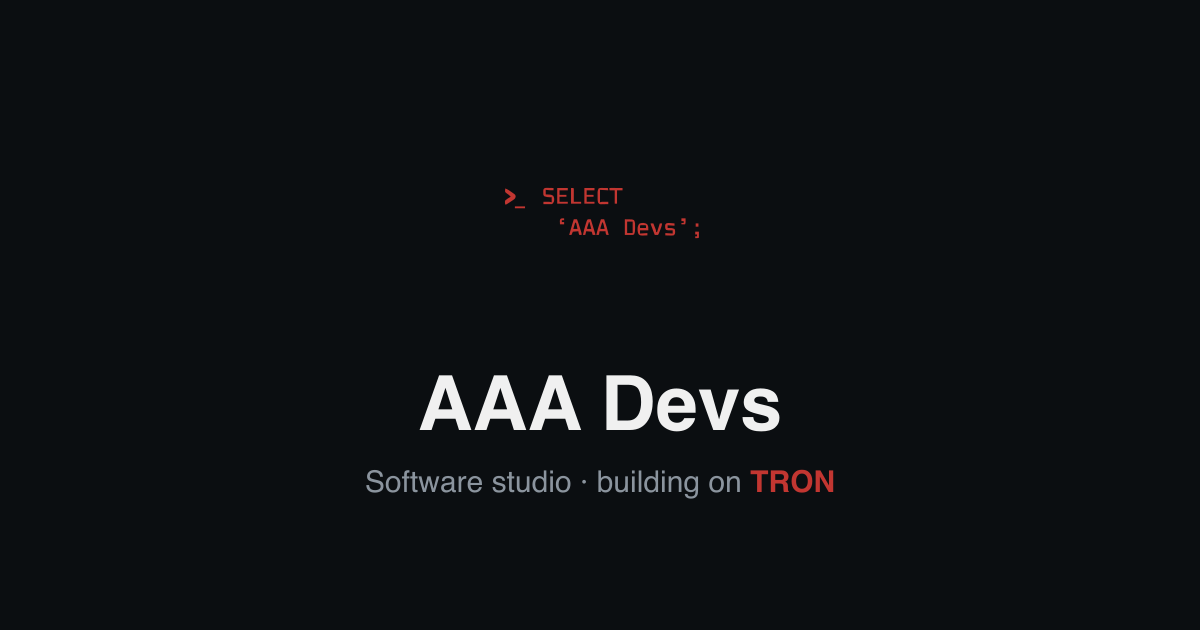
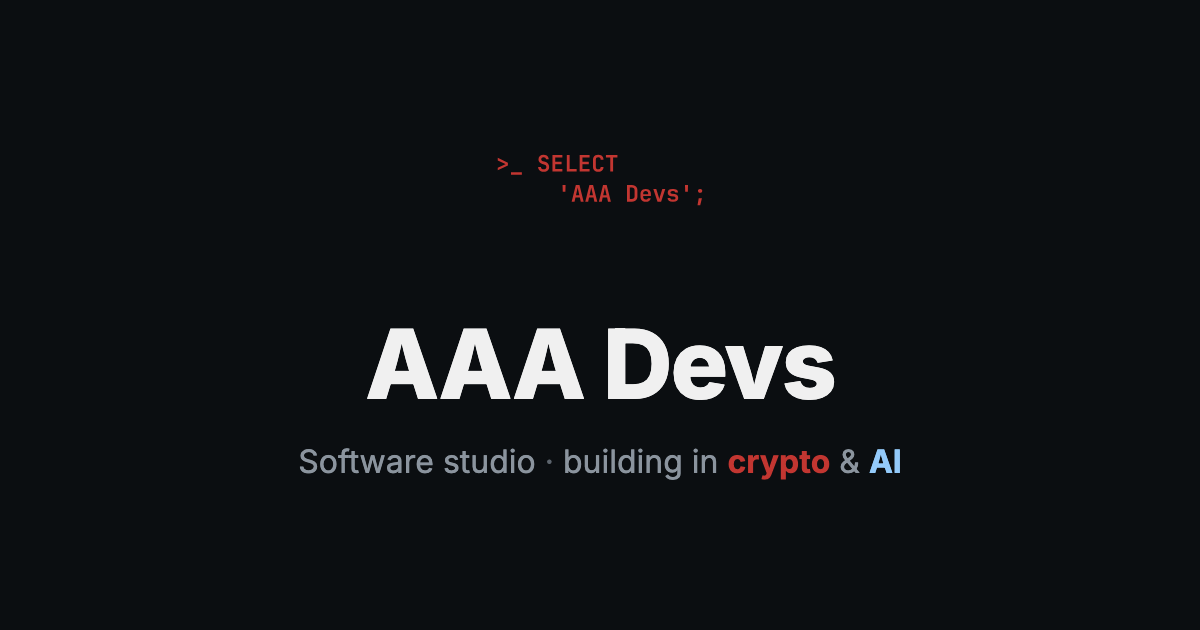
feat: add plainai project card, reposition studio as crypto & AI
- Project.astro: two-card grid (troniti + plainai), brand-colored gradient borders
- plainai logo copied from plainai repo, dark part recolored light for dark bg
- tagline everywhere: 'Software studio · building in crypto & AI'
- updated meta title/description, og-image.png (source in design/og-image.html)
- docs/architecture.md and .claude/CLAUDE.md updated

Changed region(s): [[0.3083, 0.5127, 0.7092, 0.6937], [0.2467, 0.6937, 0.7708, 0.7841], [0.4008, 0.2413, 0.5858, 0.3921]]

diff --git a/docs/architecture.md b/docs/architecture.md
@@ -3,15 +3,21 @@
 ## Overview
 
 The site of the software studio **AAA Devs** (aaadevs.com). As simple as possible: a studio business
-card with a card for the current project that links to the project's own landing.
+card with a grid of project cards, each linking to the project's own landing. Positioning: software
+studio building in **crypto & AI**.
 
-The studio's flagship project → **troniti** ([troniti.com](https://troniti.com)): a non-custodial
-TRX-yield management service for large TRON holders. **All product content** (how it works, the trust
-model, yield, dashboard, cabinet) lives on troniti.com — we do not duplicate it on the studio site.
-Here it's just a short card + a link.
+Current projects:
 
-> The studio site makes no yield claims and describes no mechanics — that's the job of troniti's own
-> landing. aaadevs.com simply says "we're a studio, here's our project" and links out to troniti.com.
+- **troniti** ([troniti.com](https://troniti.com)) — a non-custodial TRX-yield management service for
+  large TRON holders.
+- **PlainAI** ([plainai.tech](https://plainai.tech)) — an AI tools directory: honest reviews, AI news
+  and practical guides.
+
+**All product content** (how it works, the trust model, yield, dashboard, reviews) lives on each
+product's own site — we do not duplicate it on the studio site. Here it's just a short card + a link.
+
+> The studio site makes no product claims and describes no mechanics — that's the job of each
+> product's own landing. aaadevs.com simply says "we're a studio, here are our projects" and links out.
 
 ## Tech stack
 
@@ -35,7 +41,7 @@ aaadevs_com/
 │   │
 │   ├── components/
 │   │   ├── Hero.astro             # Studio logo, name, tagline
-│   │   ├── Project.astro          # troniti card → link to troniti.com
+│   │   ├── Project.astro          # Project cards grid (troniti, plainai) → links out
 │   │   └── Footer.astro           # Copyright, email
 │   │
 │   └── styles/
@@ -44,6 +50,7 @@ aaadevs_com/
 ├── public/
 │   ├── images/
 │   │   ├── logo.svg               # AAA Devs studio logo (TRON-red)
+│   │   ├── plainai-logo.svg       # PlainAI wordmark (recolored light for dark bg)
 │   │   └── og-image.png           # Open Graph 1200×630 (generated from logo.svg)
 │   ├── CNAME                      # aaadevs.com
 │   └── favicon.ico
@@ -60,16 +67,19 @@ if needed, live on troniti.com).
 ### Screen 1 — Hero (fullscreen)
 - Studio logo SVG, centered
 - Heading: **"AAA Devs"**
-- Tagline: *"Software studio · building on TRON"* (the word TRON as an accent)
+- Tagline: *"Software studio · building in crypto & AI"* ("crypto" in TRON-red, "AI" in PlainAI blue)
 - Minimal, lots of whitespace, dark background, subtle gradient
 
-### Screen 2 — Project (troniti card)
-- A single project card with a thin red gradient border
-- The troniti brand mark (tilted orbit) + lowercase wordmark **troniti** + a green status badge
-  (**Live**) + one line of description: *"Non-custodial TRON yield management"*
-- CTA button: **"Visit troniti.com →"** (→ troniti.com)
+### Screen 2 — Projects (cards grid)
+- A two-column grid (stacked on mobile) of project cards, each with a thin gradient border in the
+  project's brand color
+- **troniti card** (red border): the troniti brand mark (tilted orbit) + lowercase wordmark
+  **troniti** + a green status badge (**Live**) + one line: *"Non-custodial TRON yield management"*
+  + CTA **"Visit troniti.com →"**
+- **plainai card** (blue border, `#93cafa`): the PlainAI wordmark image + **Live** badge + one line:
+  *"AI tools directory — honest reviews, news & guides"* + CTA **"Visit plainai.tech →"**
 - No metrics, no mechanics — name, status, one line, link.
-- (Future: new studio-project cards get added here — a grid.)
+- New studio-project cards get added to this grid.
 
 ### Screen 3 — Footer
 - © 2026 AAA Devs
@@ -79,10 +89,10 @@ if needed, live on troniti.com).
 ## SEO and meta tags
 
 ```html
-<title>AAA Devs — Software studio · building on TRON</title>
-<meta name="description" content="AAA Devs is a software studio. Current project: troniti — non-custodial TRON yield management.">
+<title>AAA Devs — Software studio · crypto & AI</title>
+<meta name="description" content="AAA Devs is a software studio building in crypto and AI. Projects: troniti — non-custodial TRON yield management, and PlainAI — AI tools directory with honest reviews, news and guides.">
 <meta property="og:image" content="https://aaadevs.com/images/og-image.png">
-<meta property="og:title" content="AAA Devs — Software studio · building on TRON">
+<meta property="og:title" content="AAA Devs — Software studio · crypto & AI">
 <meta name="twitter:card" content="summary_large_image">
 <link rel="canonical" href="https://aaadevs.com">
 ```

diff --git a/.claude/CLAUDE.md b/.claude/CLAUDE.md
@@ -4,7 +4,7 @@ This file provides guidance to Claude Code (claude.ai/code) when working with co
 
 ## Project Overview
 
-Static studio site for **AAA Devs** (aaadevs.com) — a thin "we are a studio, here are our projects" showcase. It does NOT host product content. The current project is **troniti** ([troniti.com](https://troniti.com)): non-custodial TRON yield management. All product detail (how it works, yield, dashboard) lives on troniti.com — the studio site only carries a short card linking out.
+Static studio site for **AAA Devs** (aaadevs.com) — a thin "we are a studio, here are our projects" showcase. Positioning: software studio building in **crypto & AI**. It does NOT host product content. Current projects: **troniti** ([troniti.com](https://troniti.com)) — non-custodial TRON yield management, and **PlainAI** ([plainai.tech](https://plainai.tech)) — AI tools directory with honest reviews, news and guides. All product detail lives on each product's own site — the studio site only carries short cards linking out.
 
 ## Commands
 
@@ -23,7 +23,7 @@ Static studio site for **AAA Devs** (aaadevs.com) — a thin "we are a studio, h
 
 Single-page site (`src/pages/index.astro`) + `privacy.astro`, `terms.astro`, `404.astro`.
 
-Pages use `BaseLayout.astro` for the shared HTML shell (meta tags, fonts, global styles). The home page is three components: `Hero.astro` (logo + name + "Software studio"), `Project.astro` (troniti card → troniti.com), `Footer.astro`.
+Pages use `BaseLayout.astro` for the shared HTML shell (meta tags, fonts, global styles). The home page is three components: `Hero.astro` (logo + name + "Software studio · building in crypto & AI"), `Project.astro` (grid of project cards: troniti → troniti.com, plainai → plainai.tech), `Footer.astro`.
 
 Global styles including Tailwind directives live in `src/styles/global.css`.
 
@@ -32,7 +32,7 @@ Static assets go in `public/` (`images/logo.svg` is the studio mark).
 ## Design System
 
 - Dark theme, "data/finance" tone, modeled on tronscan.org
-- Accent: TRON-red (`#c23631`)
+- Accent: TRON-red (`#c23631`); PlainAI brand blue `#93cafa` is used for its card border, the "AI" word in the tagline, and the "ai" part of its logo
 - Font: Inter
 - Colors: bg `#0b0e11`, cards `#161b22`, text `#f0f0f0`, muted `#8b949e`, border `#21262d`
 - Detailed architecture doc: [docs/architecture.md](../docs/architecture.md)
